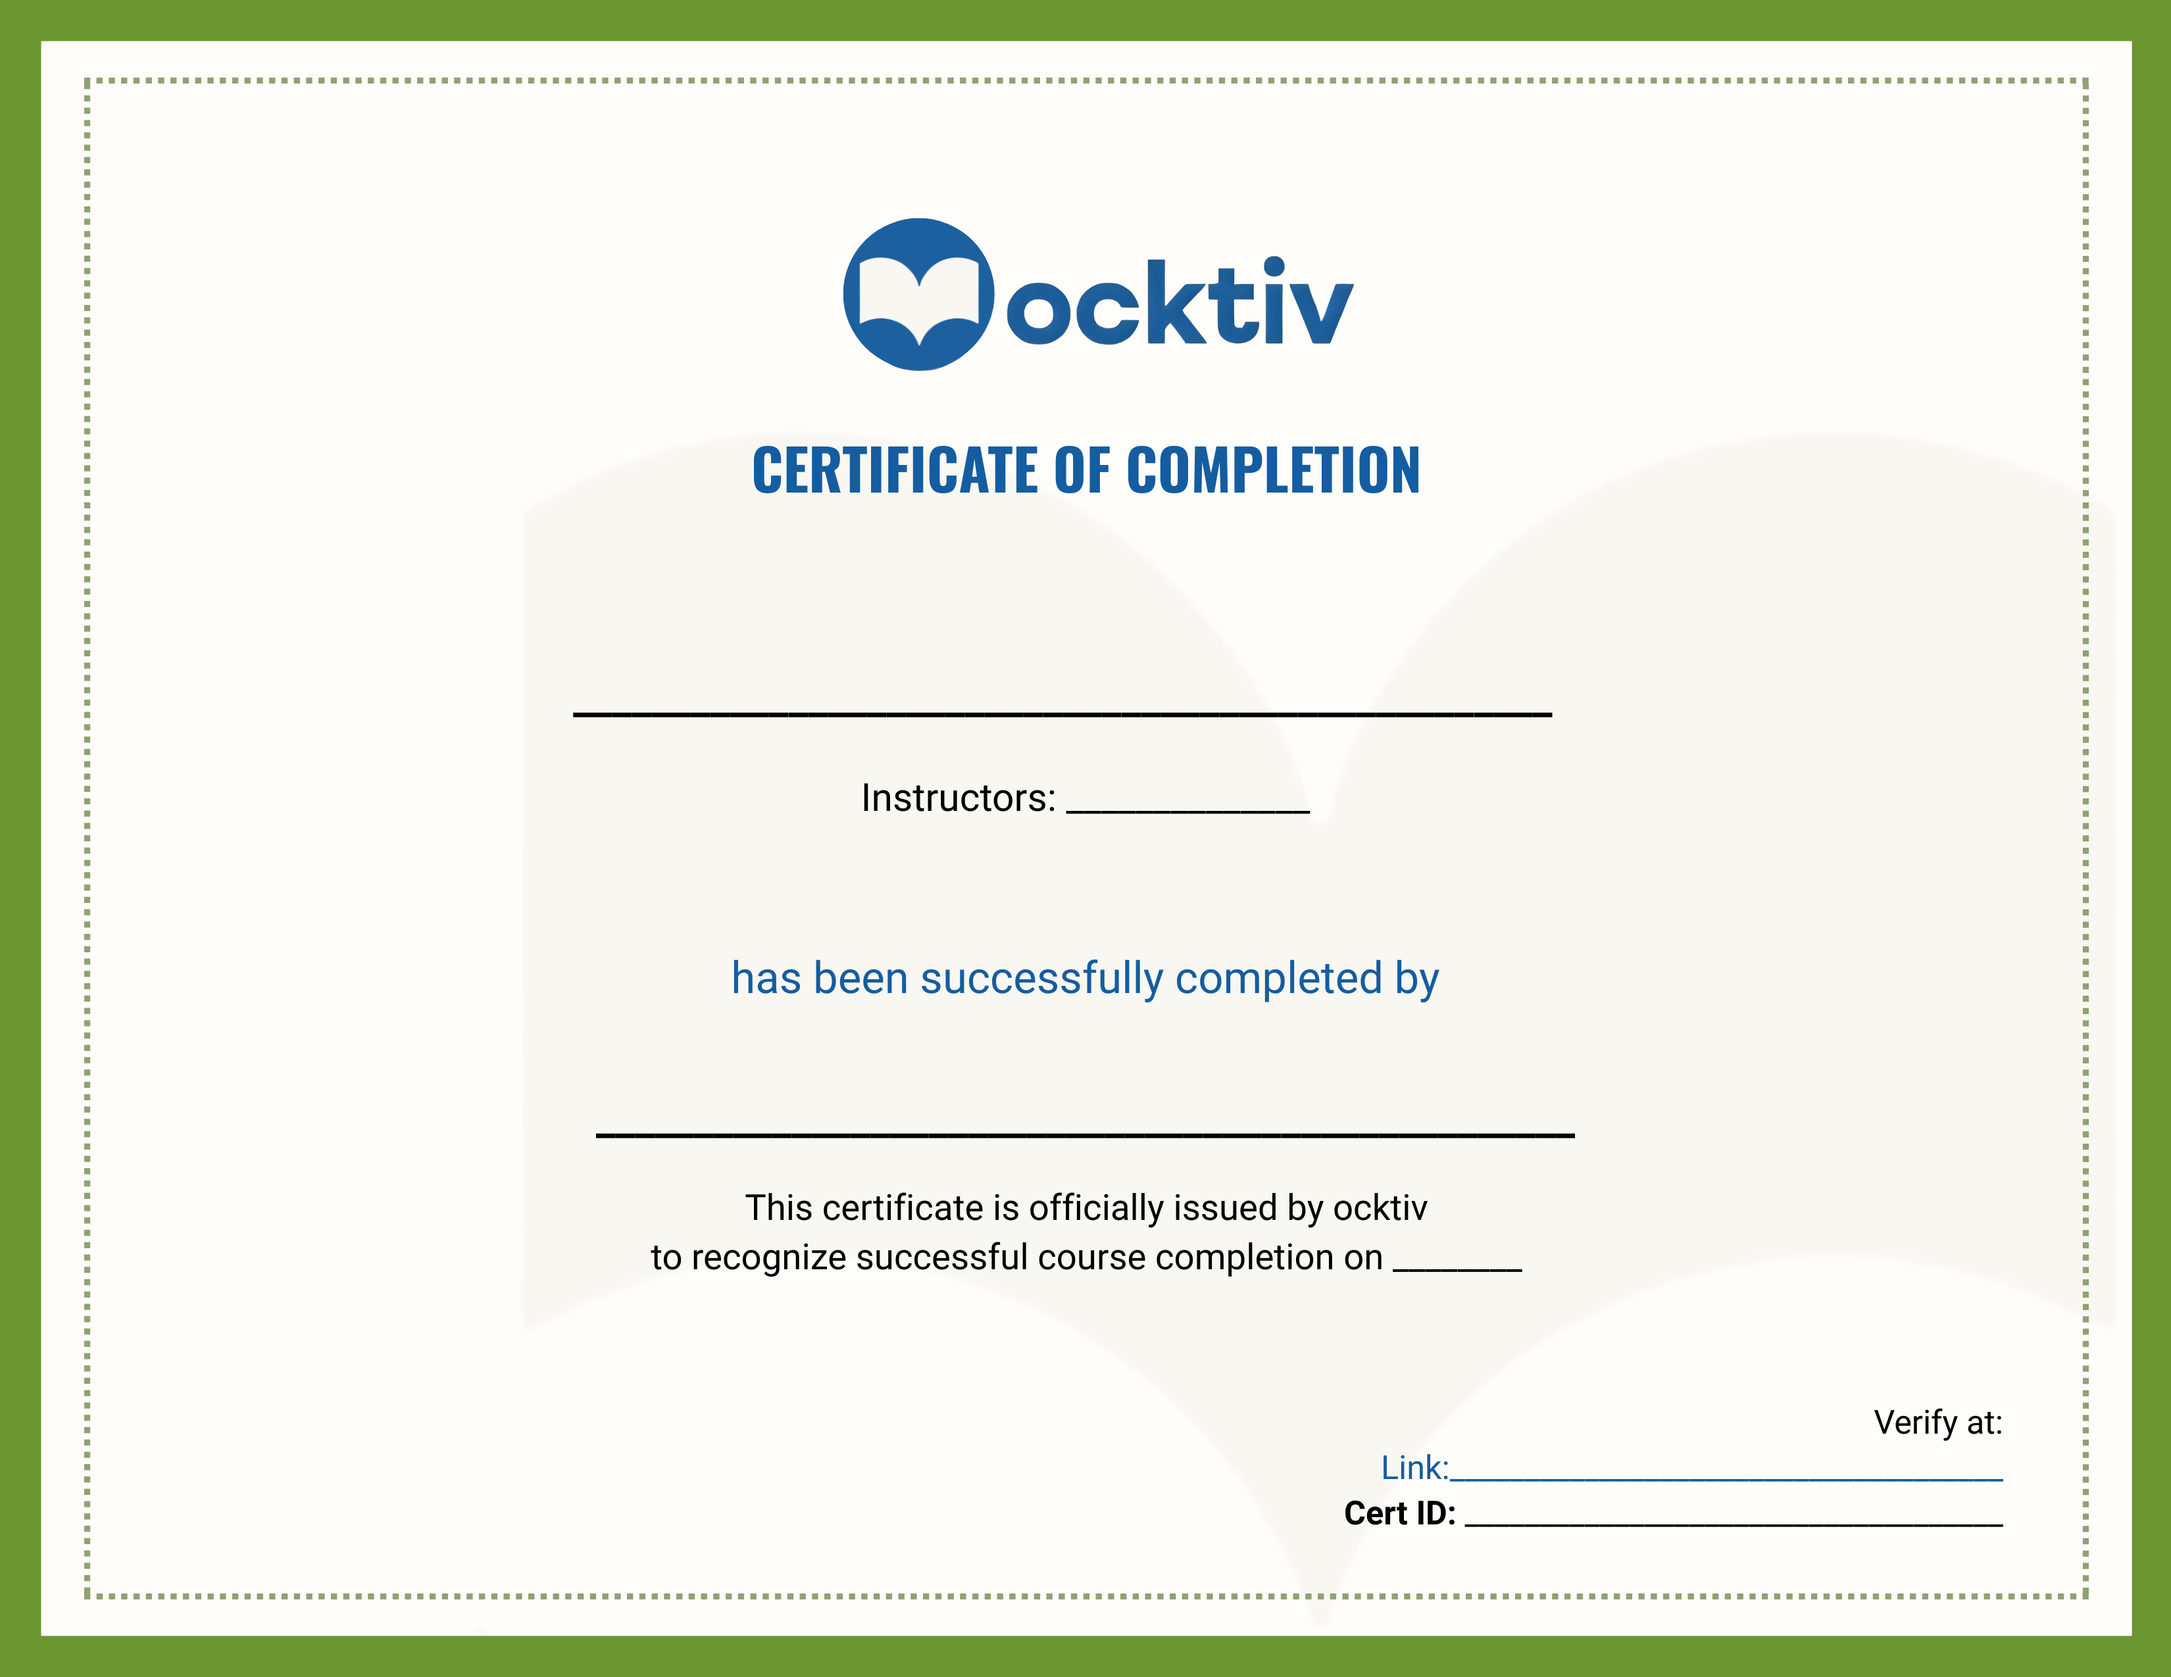
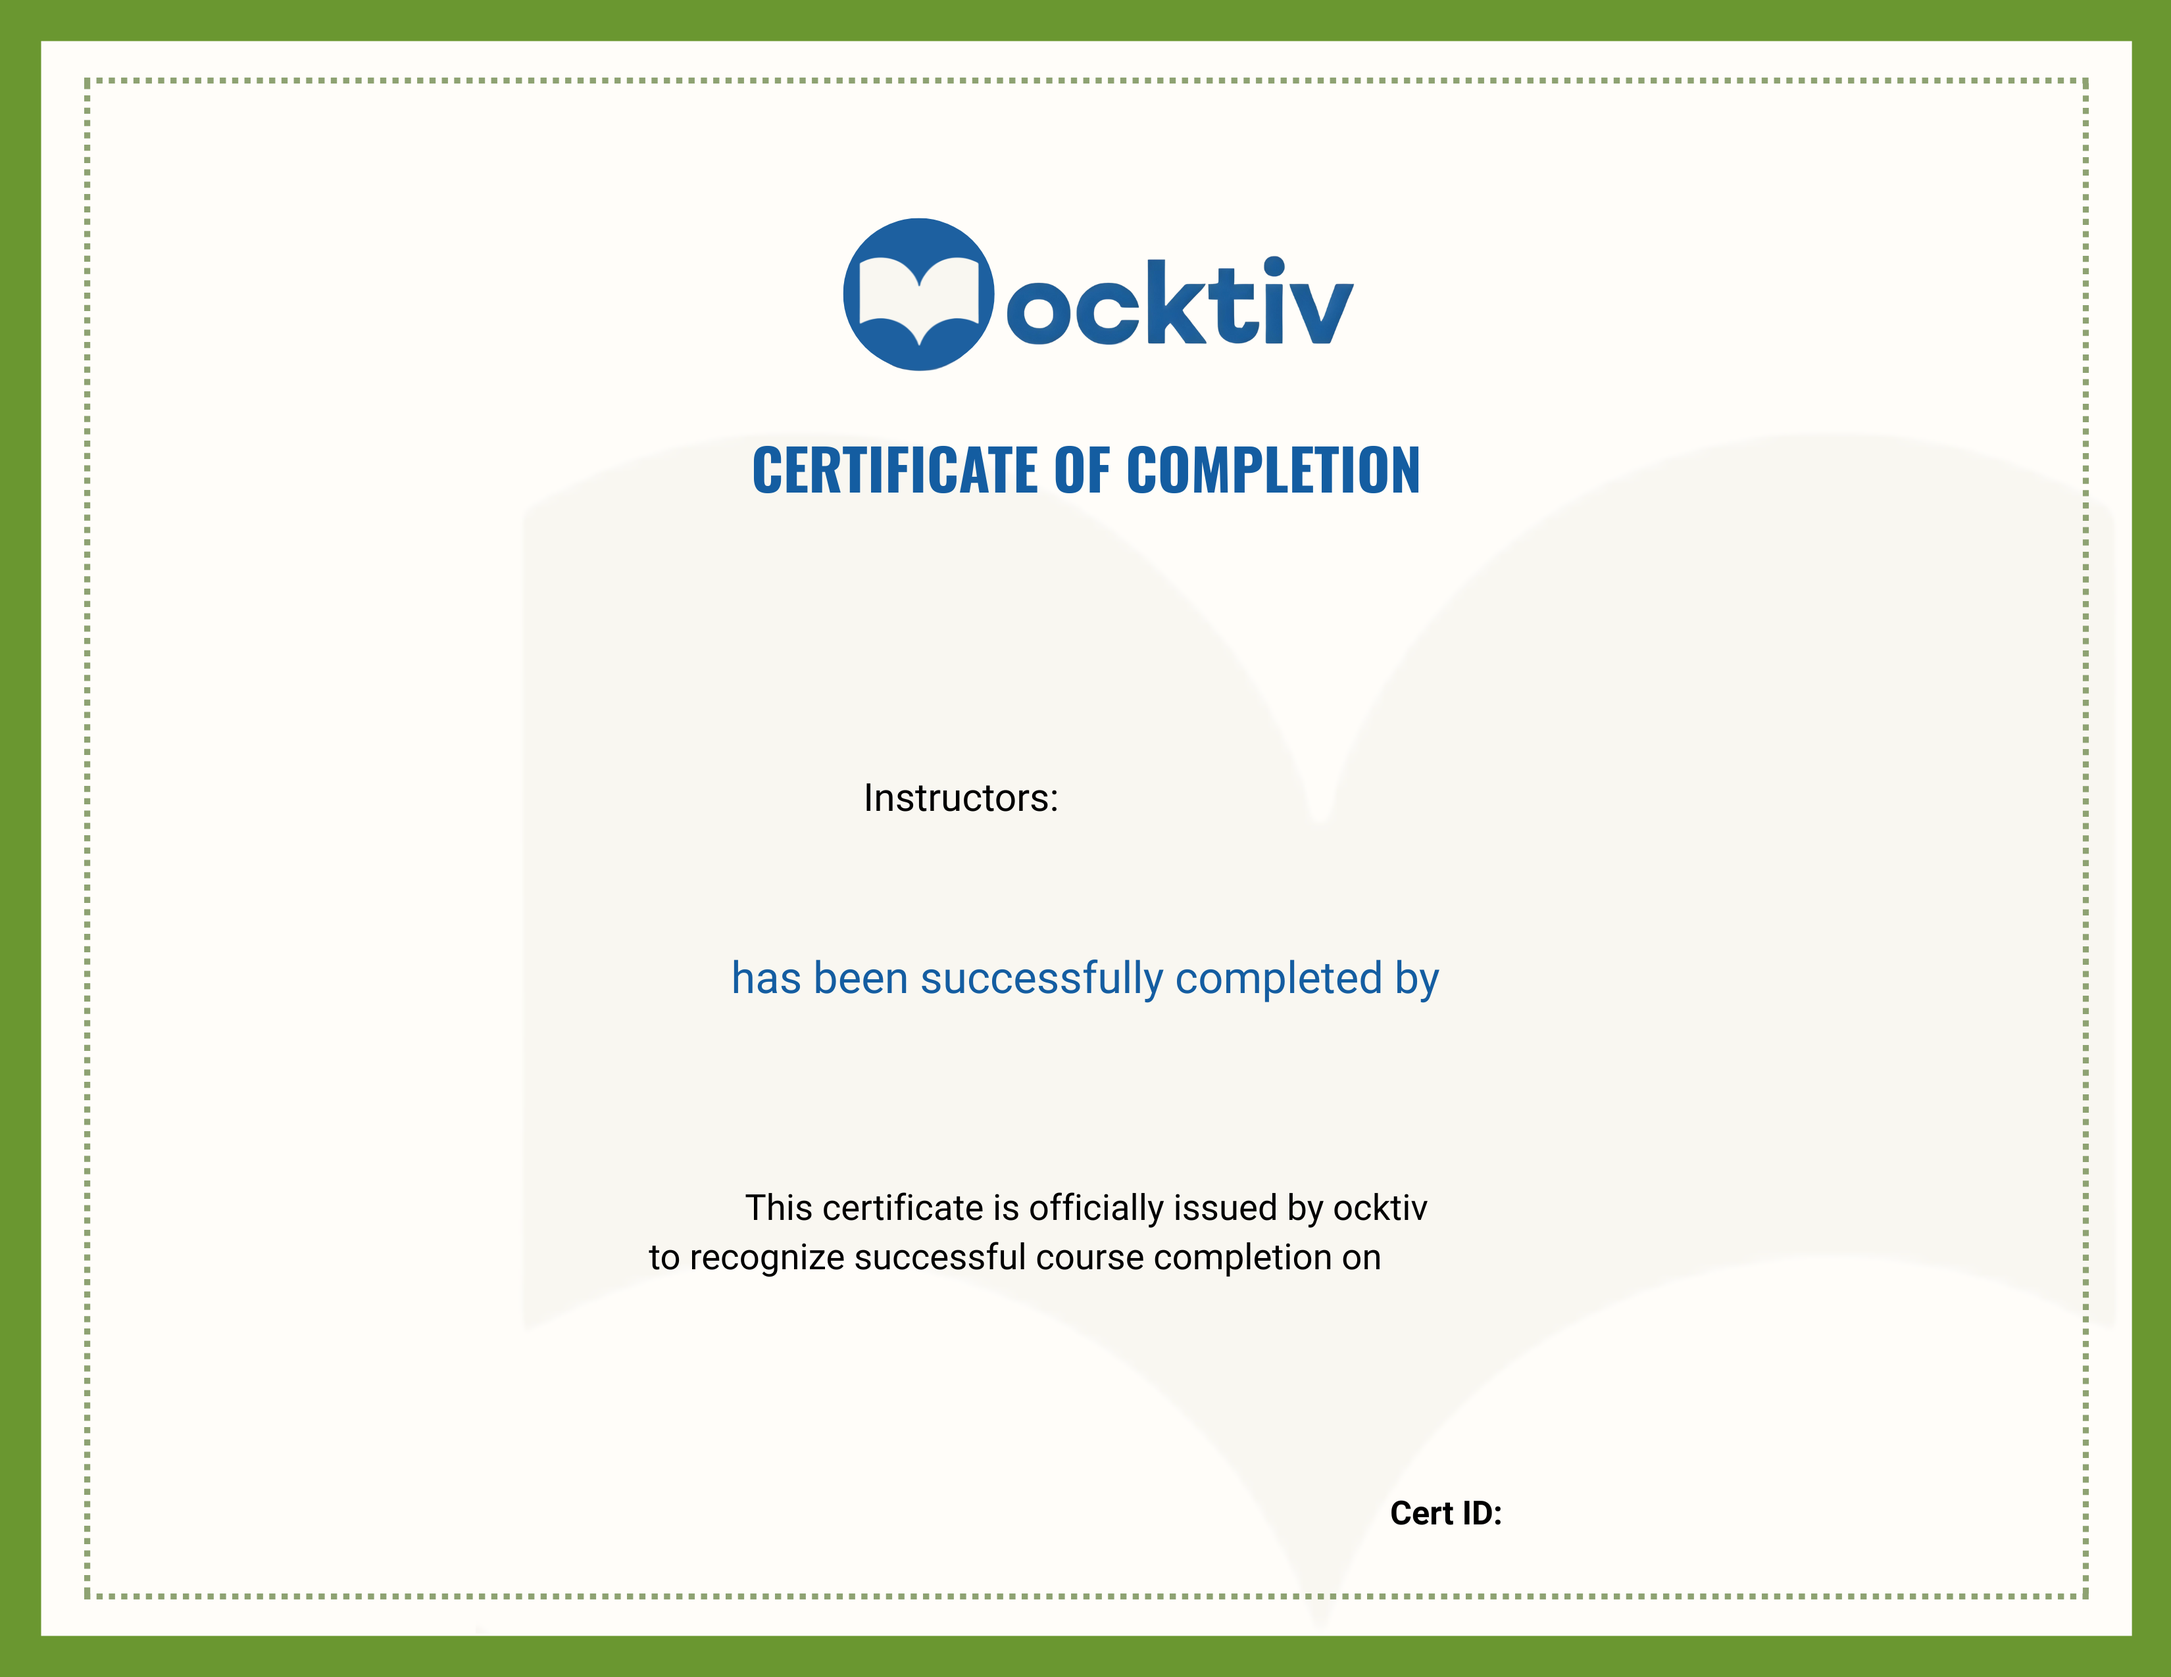
cert features

diff --git a/src/components/CertificateTab.jsx b/src/components/CertificateTab.jsx
@@ -78,6 +78,7 @@ export default function CertificateTab({ user, courseId }) {
   const [certificate, setCertificate] = useState(null);
   const [loading, setLoading] = useState(true);
   const calledRef = useRef(false); // <=== Add this
+  const [copied, setCopied] = useState(false);
 
   const backendURL =
     window.location.hostname === "localhost"
@@ -133,7 +134,7 @@ export default function CertificateTab({ user, courseId }) {
 
     fetchCertificate();
   }, [user, courseId, backendURL]);
-  
+
   if (!user || !user._id || !courseId || loading)
     return <p>Loading certificate info...</p>;
 
@@ -144,22 +145,28 @@ export default function CertificateTab({ user, courseId }) {
   const {
     studentName = "Student Name",
     courseName = "Course Name",
-    instructorName = "Instructor Name",
-    dateOfCompletion,
+    instructor = "Instructor Name",
+    completionDate,
     certId = "CertID",
     certificateUrl = "#",
   } = certificate;
 
   // Format date to readable (e.g. July 9, 2025)
   let formattedDate = "Date of Completion";
-  if (dateOfCompletion) {
-    const date = new Date(dateOfCompletion);
-    formattedDate = date.toLocaleDateString("en-US", {
-      year: "numeric",
+  if (completionDate) {
+    const date = new Date(completionDate);
+    formattedDate = date.toLocaleDateString("en-GB", {
+      day: "2-digit",
       month: "long",
-      day: "numeric"
+      year: "numeric",
     });
   }
+
+  const handleCopy = () => {
+    navigator.clipboard.writeText(certificateUrl);
+    setCopied(true);
+    setTimeout(() => setCopied(false), 2000); // hide after 2 seconds
+  };
 
   return (
     <div className="certificate-outer-container">
@@ -167,24 +174,25 @@ export default function CertificateTab({ user, courseId }) {
       <div className="certificate-header-row">
         <div>
           <h1 className="certificate-main-header">Congratulations for completing this course!</h1>
-          <p className="certificate-subtext">
+          {/* <p className="certificate-subtext">
             You may now download your certificate below
-          </p>
+          </p> */}
         </div>
         {/* BUTTONS */}
         <div className="certificate-action-buttons">
-          <button
-            className="certificate-btn share-btn"
-            onClick={() => navigator.clipboard.writeText(certificateUrl)}
-          >
-            Share Certificate
-          </button>
+          {/* Share button + toast */}
+          <div className="certificate-share-container">
+            <button className="certificate-btn share-btn" onClick={handleCopy}>
+              Share Certificate
+            </button>
+            {copied && <div className="copy-toast">Link copied!</div>}
+          </div>
+
+          {/* Download button */}
           <a
             href={certificateUrl}
-            target="_blank"
-            rel="noopener noreferrer"
+            download={`${studentName}-${courseName}-certificate.png`}
             className="certificate-btn download-btn"
-            download
           >
             Download Certificate
           </a>
@@ -202,10 +210,22 @@ export default function CertificateTab({ user, courseId }) {
 
       {/* DESCRIPTION */}
       <div className="certificate-description">
-        <p>
-          This certificate confirms that <b>{studentName}</b> completed all requirements for the <b>{courseName}</b> course on <b>{formattedDate}</b>, under the instruction of <b>{instructorName}</b> through Ocktiv.
+        {/* <p>
+          This certificate confirms that <b>{studentName}</b> completed all requirements for the <b>{courseName}</b> course on <b>{formattedDate}</b>, under the instruction of <b>{instructorName}</b> through ocktiv.
           <br />
           Course completion has been validated within our platform. To confirm the authenticity of this certificate, please visit <b>ocktiv.com/certificates/{certId}</b> and enter the provided Cert ID in the URL.
+        </p> */}
+        <p>
+          This certificate confirms that <b>{studentName}</b> has successfully completed the <b>{courseName}</b> course on <b>{formattedDate}</b>, under the instruction of <b>{instructor}</b> through ocktiv.
+          <br /><br />
+          You can view or share your certificate using the following link:{" "}
+          <a
+            href={certificateUrl}
+            target="_blank"
+            rel="noopener noreferrer"
+          >
+            <b>ocktiv.com/certificates/{certId}</b>
+          </a>
         </p>
       </div>
     </div>

diff --git a/server/controllers/certificateController.js b/server/controllers/certificateController.js
@@ -273,33 +273,33 @@ export const generateCertificate = async (req, res) => {
     console.log("Canvas height:", height);
     
     // Course Name (above first line)
-    ctx.font = "bold 40px Arial";
+    ctx.font = "bold 90px Arial";
     ctx.fillStyle = "#000";
     ctx.textAlign = "center";
-    ctx.fillText(courseName, width / 2, 1050);
+    ctx.fillText(courseName, width / 2, 1045);
     
     // Instructors (left-aligned under line)
-    ctx.font = "32px Arial";
+    ctx.font = "60px Arial";
     ctx.fillStyle = "#000";
     ctx.textAlign = "left";
-    ctx.fillText(`${instructor}`, 1700, 1210);
+    ctx.fillText(`${instructor}`, 1630, 1235);
     
     // Student Name (on second underline)
-    ctx.font = "bold 40px Arial";
+    ctx.font = "bold 90px Arial";
     ctx.fillStyle = "#1d4f91";
     ctx.textAlign = "center";
-    ctx.fillText(studentName, width / 2, 1700);
+    ctx.fillText(studentName, width / 2, 1680);
     
-    ctx.font = "26px Arial";
-    ctx.fillStyle = "#444";
-    ctx.fillText(completionDate, 2200, 1920);
-
-    ctx.fillStyle = "#1d4f91";
-    ctx.fillText(`ocktiv.com/certificates/${certId}`, 760, 540);
-    
-    ctx.font = "bold 16px Arial";
+    ctx.font = "50px Arial";
     ctx.fillStyle = "#000";
-    ctx.fillText(`${certId}`, 2100, 2280);
+    ctx.fillText(completionDate, 2240, 1930);
+
+    // ctx.fillStyle = "#1d4f91";
+    // ctx.fillText(`ocktiv.com/certificates/${certId}`, 760, 540);
+    
+    ctx.font = "bold 40px Arial";
+    ctx.fillStyle = "#000";
+    ctx.fillText(`${certId}`, 2680, 2315);
     
     // // 5. Draw background + text
     // ctx.drawImage(certImage, 0, 0, width, height);
@@ -341,12 +341,18 @@ export const generateCertificate = async (req, res) => {
     const buffer = canvas.toBuffer("image/png");
     const s3Key = `certificates/${userId}-${courseId}-${Date.now()}.png`;
 
+    const safeFileName = `${studentName}-${courseName}`
+  .replace(/\s+/g, "_")        // Replace spaces with underscores
+  .replace(/[^a-zA-Z0-9_-]/g, ""); // Remove special characters
+
+
     // 7. Upload to S3
     const uploadParams = {
       Bucket: process.env.AWS_S3_BUCKET,
       Key: s3Key,
       Body: buffer,
       ContentType: "image/png",
+      //ContentDisposition: `attachment; filename="${safeFileName}.png"`, // this triggers download - but it downloads eveytime even when user just tries to visit the link
     };
 
     const s3Result = await s3.upload(uploadParams).promise();

diff --git a/src/style/certificate.css b/src/style/certificate.css
@@ -146,11 +146,38 @@
     background: #f7fff0;
     padding: 16px 22px;
     border-radius: 8px;
-    font-size: 1.08rem;
+    font-size: 1 rem;
     line-height: 1.55;
     max-width: 900px;
     margin-left: auto;
     margin-right: auto;
     border: 1px solid #e5efce;
+  }
+  
+  .certificate-share-container {
+    position: relative;
+    display: inline-block;
+  }
+  
+  .copy-toast {
+    position: absolute;
+    top: 100%; /* Directly below the button */
+    left: 50%;
+    transform: translateX(-50%);
+    margin-top: 6px;
+    background-color: #e0f7e9;
+    color: #2e7d32;
+    font-size: 13px;
+    font-weight: 500;
+    padding: 4px 10px;
+    border-radius: 4px;
+    white-space: nowrap;
+    animation: fadeOut 2s forwards;
+    box-shadow: 0 1px 4px rgba(0, 0, 0, 0.1);
+  }
+  
+  @keyframes fadeOut {
+    0%, 70% { opacity: 1; }
+    100% { opacity: 0; }
   }
   
